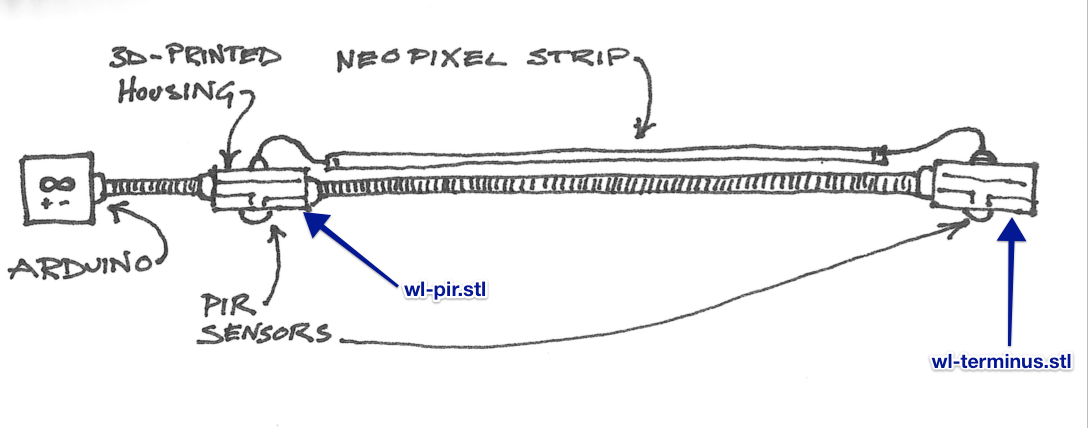
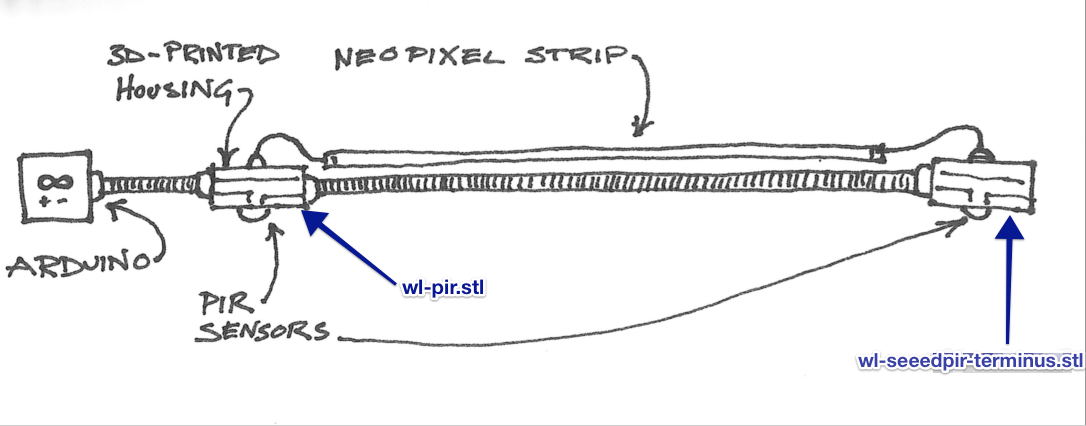
Firefly 2017 and improved howto documentation

diff --git a/docs/README.md b/docs/README.md
@@ -39,21 +39,37 @@ At the beginning and end of the installation are passive infrared (PIR) motion s
 
 At Firefly 2017, I deployed two sets of Witch Lights along half the length of _John from Train St._, a dark and windy path in the Bethel, VT woods. 
 
+### Documentation
+
+[Here is a video of the Witch Lights in action at Firefly 2017][vid3].
+
+[vid3]: https://vimeo.com/225143068
+
+All credit for photos and video go to Steve Pomeroy, who graciously agreed to help document the project this year. 
+
+![No Parking in the woods](https://raw.githubusercontent.com/jdimauro/witch-lights/master/docs/wl-firefly2017-0.jpg)
+
+![Firefly 2017](https://raw.githubusercontent.com/jdimauro/witch-lights/master/docs/wl-firefly2017-1.jpg)
+
+![More Firefly 2017](https://raw.githubusercontent.com/jdimauro/witch-lights/master/docs/wl-firefly2017-3.jpg)
+
+![Further Firefly 2017](https://raw.githubusercontent.com/jdimauro/witch-lights/master/docs/wl-firefly2017-6.jpg)
+
 ### Improvements
 
-This installation of the lights included an all-new, object-oriented build of the software, which allowed for animating an arbitrary number of faerie sprites at once. Also, in the year since Firefly 2016, I hunted down and fixed the bug that caused the motion sensors to malfunction that year. 
+This installation of the lights included an all-new, object-oriented build of the software, which allowed for animating an arbitrary number of faerie sprites at once, in a range of five colors. Also, in the year since Firefly 2016, I hunted down and fixed the bug that caused the motion sensors to malfunction that year. 
 
 The result was that, as you walked down the path, a faerie sprite would pace you, sometimes zipping ahead, and then pausing to flicker while you caught up. The effect was magical. 
+
+### Challenges
+
+The weather forecast for Bethel, VT was for rain all night on two nights of the festival, at times when I really wanted the Witch Lights running. So the week prior to Firefly, I applied waterproofing putty to all of the 3D-printed joints. I am proud to say that the weatherproofing was successful, and the Witch Lights continued to run for their usual 6 hours (the length of a battery charge) in the rain, with no leaks or short circuits. 
 
 ### Reception
 
 I admit to being a royal pest at Firefly, starting conversations by asking if people had seen the lights. By way of apology, I can only say that after the year's hard work paid off with an installation that matched the original vision of the project, I wanted to share that vision with everyone I could. 
 
-My favorite 
-
-[Here is a video of the Witch Lights in action at Firefly 2017][vid3].
-
-[vid3]: https://vimeo.com/225143068
+My favorite story of an experience with the Witch Lights was an acquaintance who told me she had lucid dreams of the faerie light sprites leading her through the woods at night. 
 
 ## Firefly 2016
 
@@ -68,6 +84,7 @@ The Witch Lights were exhibited at the Firefly Art Festival in Vermont, from Jun
 The lights were installed on a winding path through the woods, near the rear entrance to Library Camp. 
 
 ![Electronics package and beginning of LED strips](https://raw.githubusercontent.com/jdimauro/witch-lights/master/docs/wl-firefly2016-0.jpg)
+
 
 The lights wound up around a tree, and then snaked through a tree stump.
 
@@ -91,10 +108,6 @@ The reaction to the Witch Lights was hugely enthusiastic and positive. Many atte
 
 This is an advanced project. It involves building a weather resistant wire rig with 3D-printed sensor housings, which itself requires a great deal of soldering, assembly, cable pulling, and testing. The modular nature of the design means you will have to take your intended installation environment into account and make your own decisions about the length and number of LED strips and connectors you plan to use. 
 
-### Important Caveat
-
-Even though the rig is designed to be weather resistant, it has not yet been tested in heavy rain or other wet conditions! Please take care and consider that this project uses electricity outdoors. **Proceed at your own risk.** 
-
 ## Bill of Materials
 
 Components: 
@@ -103,15 +116,19 @@ Components:
 * [Heat-Shrink, 1/4"](http://www.mouser.com/ProductDetail/3M-Electronic-Specialty/EPS300-1-4-48-Black-Bulk/)
 * [Heat-Shrink, 1/2" (optional)](http://www.mouser.com/ProductDetail/3M/FP301-1-2-48-Clear-Bulk/)
 * [Ribbon Cable, 100' spool](http://www.mouser.com/ProductDetail/Amphenol-Spectra-Strip/135-2801-010/)
+* [Hookup wire, 18AWG solid-core, red](https://smile.amazon.com/Frey-Scientific-581181-Conductor-Coated/dp/B00FGDV8HU) and [black](https://smile.amazon.com/Remington-Industries-20UL1007SLDBLA-Hook-Up-Diameter/dp/B010T6075W/), 100' spool each
 * [Hookup wire, 22AWG, various colors](https://www.adafruit.com/products/1311)
 * [M3 socket-head machine screws, 8mm length](http://www.mcmaster.com/#socket-head-cap-screws/=10zugcn "McMaster-Carr") (box 100)
 * [Heyco 8452 3/4" conduit](http://amazon.com/Heyco-8452-BLACK-LIQUID-TUBING/dp/B001BQ029G/) (100' spool)
-* [PIR Motion Sensor](https://www.adafruit.com/products/189) (2)
-* [micro-USB power adapter](https://www.adafruit.com/products/1995)
+* [PIR Motion Sensor](https://www.adafruit.com/products/189) (1)
+* [Seeed Studio low-power Motion Sensor](http://wiki.seeed.cc/PIR_Motion_sensor_module/) (1)
+* 3D-Printed `wl-pir.STL` PIR sensor enclosure (1)
+* 3D-Printed `wl-nopir.STL` terminal board enclosures (varies according to the length of the installation you want to build)
+* 3D-Printed `wl-seeedpir-terminus.STL` PIR sensor enclosure (1)
 
 Arduino Enclosure components:
 
-* [Arduino Due](https://www.adafruit.com/products/1076)
+* [Arduino Due](https://www.adafruit.com/products/1076) Note: An Arduino Mega _will not_ work. The current build uses too much RAM for the Mega. 
 * [Waterproof Enclosure (Large)](https://www.adafruit.com/products/905)
 * 3D-Printed `wl-arduino-mount.STL` circuit board mount
 * M3 machine screw, 20mm (?)
@@ -211,7 +228,7 @@ Instead, I recommend a slightly more complex configuration as the simplest possi
 
 ![3D Printing Instructions Figure 2](https://raw.githubusercontent.com/jdimauro/witch-lights/master/docs/wl-3dprint-fig2.png)
 
-To make this configuration, you will need two `wl-pir.stl` enclosures, one `wl-nopir.stl` enclosure, and one `wl-terminus.stl` enclosure. This will space out the sensors and make it so that they trigger at the right times, making the lights chase back and forth between the sensors. 
+To make this configuration, you will need two `wl-pir.stl` enclosures, one `wl-nopir.stl` enclosure, and one `wl-seeedpir-terminus.stl` enclosure. This will space out the sensors and make it so that they trigger at the right times, making the lights chase back and forth between the sensors. 
 
 Please see the second video in the Overview section if you want to see what this configuration looks like in the wild. 
 
@@ -490,6 +507,8 @@ Once you've got your conduit set, it's time to pull ribbon cable through it. You
 
 Extend your cable snake into the conduit and keep unreeling it until it pokes through the far end of the conduit. Then your friend can pinch the cable and stuff it through the little hole on the end of the cable snake, or use tape to attach it. Now have your friend put your wooden dowel through the hole in the ribbon cable spool, and hold either end of the dowel as you _slowly and carefully_ reel in the cable, until the cable pokes out of the conduit on your end. Pull about 4-5 inches of ribbon past the end of the cable, and then cut the ribbon cable on the other end, also with about 4-5 inches of extra. 
 
+Repeat this process with the 20 AWG solid core red and black wires, for the power harness.
+
 Decide which way you plan to orient the conduit, and then use a label printer or tape and a marker to mark an arrow → pointing _away_ from the Arduino enclosure. 
 
 Since this is the first conduit, connect the PIR sensor housing to the far end. Slide the conduit and ribbon cable through one of the holes on the housing. Doesn't matter which one. Carefully thread the ribbon cable through the hole in one of the silicone washers and the screw-on cap, and use your fingers to tighten those down as hard as you can. You'll probably end up holding the connector in one hand and twisting the dome-like cap on the conduit connector in the other hand. 
@@ -502,7 +521,7 @@ The next conduit you want to assemble is the other PIR sensor. Give this one a g
 
 Now you may see how this is a modular system; these conduit segments may be arranged in any configuration, so long as they form an unbroken chain from the Arduino to the final PIR sensor. 
 
-Next, we will install terminal boards in the 3D-printed enclosures, and we will strip and attach the ribbon cable to the terminals on those boards. 
+Next, we will install terminal boards in the 3D-printed enclosures, and we will strip and attach the ribbon cable and power cables to the terminals on those boards. 
 
 ### Terminal boards
 
@@ -572,7 +591,7 @@ At the last terminal board, connect the yellow wire to the PIR sensor. Do a cont
 
 Final checks: 
 
-Check all the ground and power lines to make sure they aren't shorted anywhere down the line. Test the final terminal board against the arduino enclosure. If there are no shorts, turn on the power. Check the power terminals on the final board; it should show 5 volts. 
+Check all the ground and power lines to make sure they aren't shorted anywhere down the line. Test the final terminal board against the arduino enclosure. If there are no shorts, turn on the power. Check the power terminals on the final board; it should show between 5 and 3.5 volts. Preferably 5 if there are no NeoPixel strips attached yet. 
 
 ### Connect NeoPixels
 
